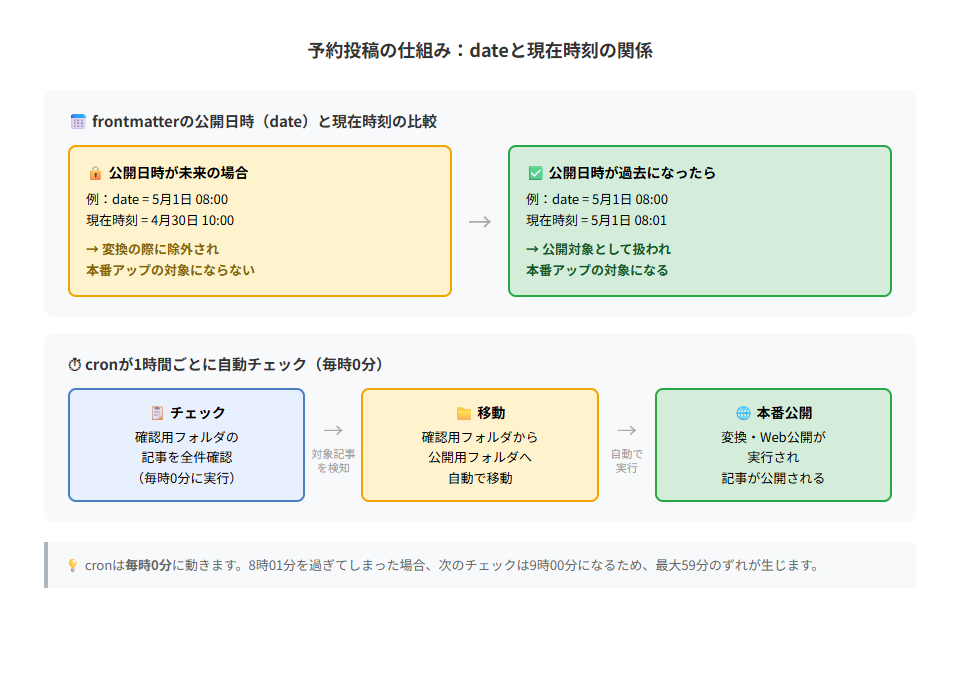
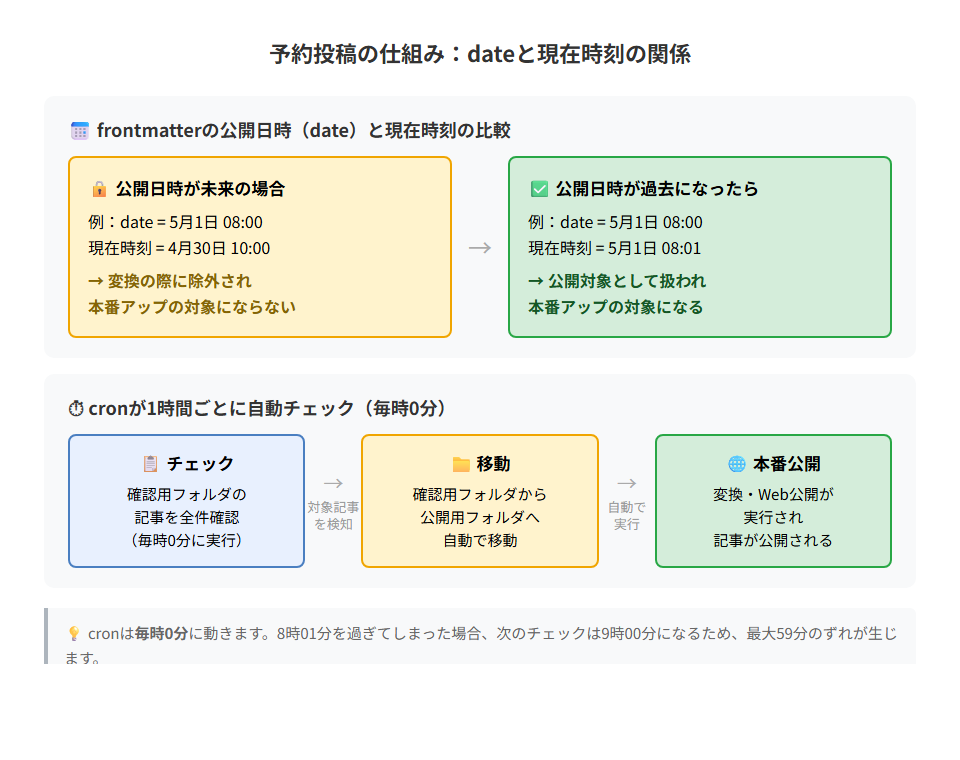
enlarge text in scheduled-post diagram for readability

diff --git a/tmp-diagram/scheduled-post-diagram.html b/tmp-diagram/scheduled-post-diagram.html
@@ -14,7 +14,7 @@
 
   .title {
     text-align: center;
-    font-size: 18px;
+    font-size: 22px;
     font-weight: bold;
     color: #333;
     margin-bottom: 28px;
@@ -94,7 +94,7 @@
   }
 
   .section-title {
-    font-size: 15px;
+    font-size: 18px;
     font-weight: bold;
     color: #333;
     margin-bottom: 14px;
@@ -110,8 +110,8 @@
   .card {
     flex: 1;
     border-radius: 8px;
-    padding: 14px 16px;
-    font-size: 13px;
+    padding: 16px 18px;
+    font-size: 16px;
     line-height: 1.6;
   }
   .card-future {
@@ -124,8 +124,8 @@
   }
   .card-label {
     font-weight: bold;
-    font-size: 14px;
-    margin-bottom: 6px;
+    font-size: 17px;
+    margin-bottom: 8px;
   }
 
   .arrow-mid {
@@ -147,15 +147,15 @@
   .cron-box {
     flex: 1;
     border-radius: 8px;
-    padding: 12px 14px;
-    font-size: 13px;
+    padding: 14px 16px;
+    font-size: 15px;
     line-height: 1.55;
     text-align: center;
   }
   .cron-box-label {
     font-weight: bold;
-    font-size: 14px;
-    margin-bottom: 4px;
+    font-size: 17px;
+    margin-bottom: 6px;
   }
   .cron-box.check { background: #e8f0fe; border: 2px solid #4a7fc1; }
   .cron-box.move  { background: #fff3cd; border: 2px solid #f0a500; }
@@ -172,7 +172,7 @@
     gap: 2px;
   }
   .cron-arrow-label {
-    font-size: 11px;
+    font-size: 13px;
     color: #999;
     text-align: center;
     line-height: 1.3;
@@ -180,7 +180,7 @@
 
   .note {
     margin-top: 20px;
-    font-size: 13px;
+    font-size: 15px;
     color: #666;
     background: #f8f9fa;
     border-left: 4px solid #adb5bd;
